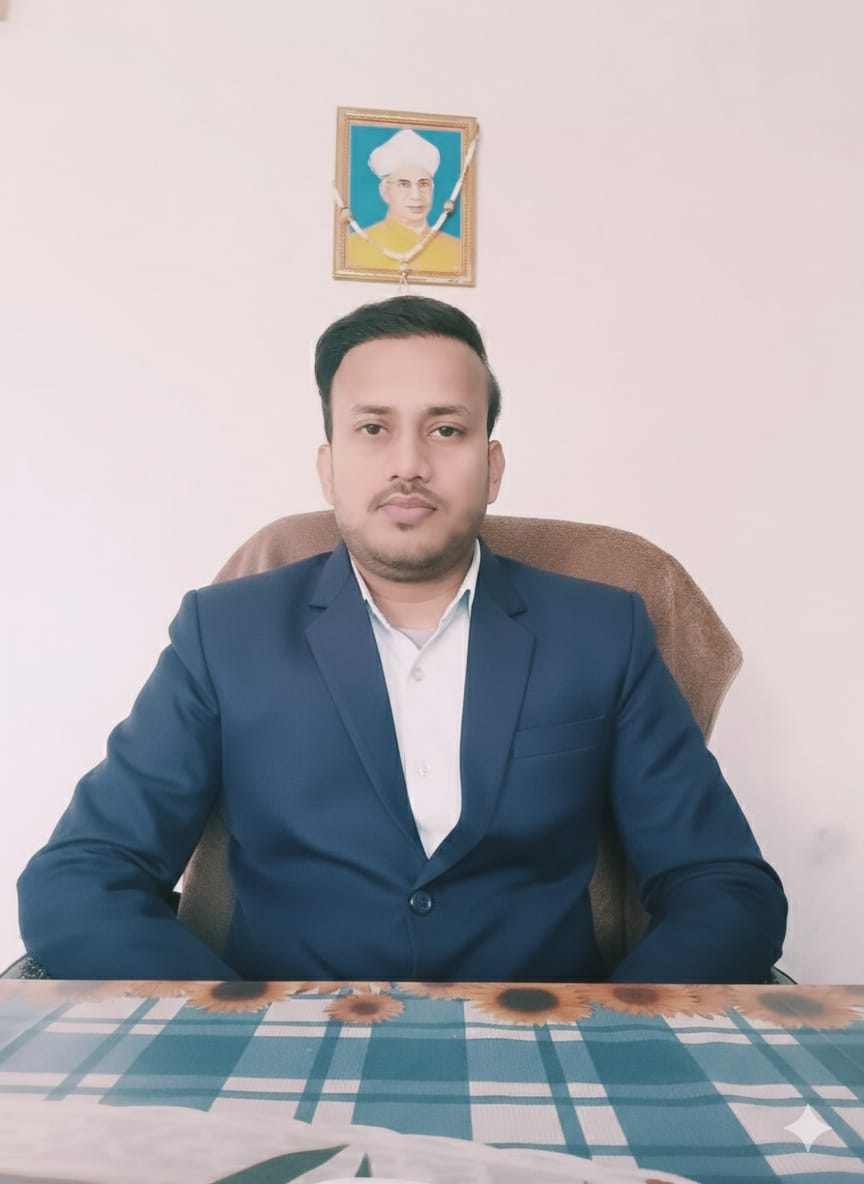
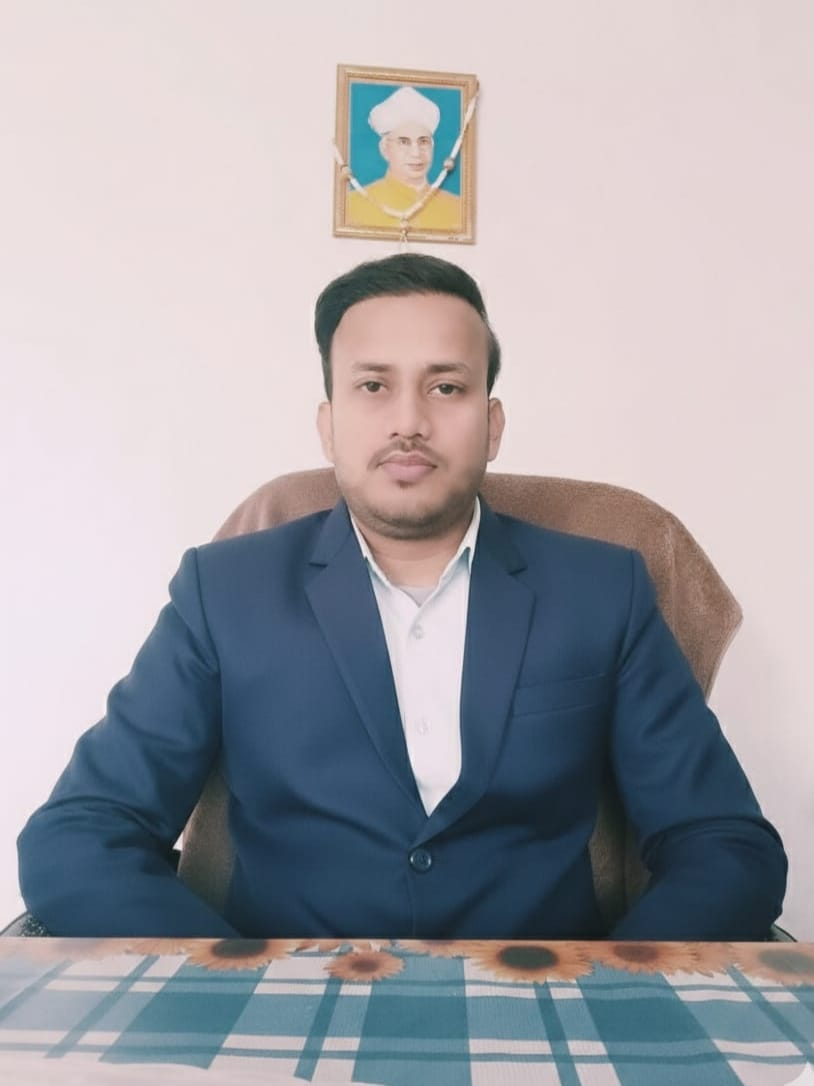
images updated

diff --git a/src/pages/GalleryPage.jsx b/src/pages/GalleryPage.jsx
@@ -101,6 +101,48 @@ const galleryImages = eventImageSources.flatMap((source) =>
     }))
 );
 
+const eventHeadlineMeta = {
+  "Republic Day Event": {
+    badge: "Patriotic Spirit",
+    title: "Republic Day Pride Parade",
+    subtitle: "A tribute to our Constitution through performances, discipline, and unity.",
+  },
+  "Independence Day Event": {
+    badge: "National Celebration",
+    title: "Independence Day Glory Moments",
+    subtitle: "Flag hoisting, cultural pride, and heartfelt salutes to the nation.",
+  },
+  "Sports Day Event": {
+    badge: "Energy & Teamwork",
+    title: "Sports Day Champions Arena",
+    subtitle: "Speed, stamina, and sportsmanship captured in every frame.",
+  },
+  "Holi Event": {
+    badge: "Colors & Joy",
+    title: "Holi Happiness Highlights",
+    subtitle: "Vibrant colors, laughter, and unforgettable festive memories.",
+  },
+  "Farewell Event": {
+    badge: "Goodbye & Gratitude",
+    title: "Farewell Golden Memories",
+    subtitle: "Emotional moments, smiles, and blessings for the next chapter.",
+  },
+  "Exam Prep Event": {
+    badge: "Focus & Growth",
+    title: "Exam Prep Success Sessions",
+    subtitle: "Dedicated guidance, smart learning, and confidence-building moments.",
+  },
+};
+
+const eventOrder = [
+  "Republic Day Event",
+  "Independence Day Event",
+  "Sports Day Event",
+  "Holi Event",
+  "Farewell Event",
+  "Exam Prep Event",
+];
+
 const GalleryPage = () => {
   const [selectedEvent, setSelectedEvent] = useState("");
   const [selectedImage, setSelectedImage] = useState(null);
@@ -116,7 +158,15 @@ const GalleryPage = () => {
   }, []);
 
   const eventSections = useMemo(() => {
-    return Object.entries(groupedByEvent).map(([event, images]) => ({ event, images }));
+    return Object.entries(groupedByEvent)
+      .map(([event, images]) => ({ event, images }))
+      .sort((first, second) => {
+        const firstIndex = eventOrder.indexOf(first.event);
+        const secondIndex = eventOrder.indexOf(second.event);
+        const safeFirstIndex = firstIndex === -1 ? Number.MAX_SAFE_INTEGER : firstIndex;
+        const safeSecondIndex = secondIndex === -1 ? Number.MAX_SAFE_INTEGER : secondIndex;
+        return safeFirstIndex - safeSecondIndex;
+      });
   }, [groupedByEvent]);
 
   const selectedEventImages = useMemo(() => {
@@ -155,6 +205,14 @@ const GalleryPage = () => {
 
       <div className="mt-8 space-y-10">
         {eventSections.map((section, sectionIndex) => (
+          (() => {
+            const headline = eventHeadlineMeta[section.event] ?? {
+              badge: "Campus Event",
+              title: section.event,
+              subtitle: "Memories from this special event celebration.",
+            };
+
+            return (
           <motion.div
             key={section.event}
             initial={{ opacity: 0, y: 20 }}
@@ -163,8 +221,14 @@ const GalleryPage = () => {
             transition={{ duration: 0.55, delay: sectionIndex * 0.04 }}
             className="rounded-3xl border border-slate-200 bg-white p-4 shadow-md shadow-slate-900/5 sm:p-6"
           >
-            <div className="mb-4 flex items-center justify-between gap-3">
-              <h2 className="text-xl font-bold text-slate-900 sm:text-2xl">{section.event}</h2>
+            <div className="mb-4 flex items-start justify-between gap-3">
+              <div>
+                <span className="inline-flex rounded-full border border-blue-100 bg-blue-50 px-3 py-1 text-[11px] font-semibold uppercase tracking-wide text-blue-700 sm:text-xs">
+                  {headline.badge}
+                </span>
+                <h2 className="mt-2 text-xl font-bold text-slate-900 sm:text-2xl">{headline.title}</h2>
+                <p className="mt-1 text-xs text-slate-600 sm:text-sm">{headline.subtitle}</p>
+              </div>
               <span className="rounded-full border border-slate-200 bg-slate-50 px-3 py-1 text-xs font-semibold text-slate-600 sm:text-sm">
                 {section.images.length} Photos
               </span>
@@ -188,7 +252,7 @@ const GalleryPage = () => {
                     aria-label={`Open ${image.title}`}
                     className="group relative overflow-hidden rounded-2xl border border-slate-200 bg-white text-left shadow-sm shadow-slate-900/10"
                   >
-                    <div className="relative aspect-[4/5] overflow-hidden bg-slate-100 sm:aspect-[4/3]">
+                    <div className="relative aspect-[4/3] overflow-hidden bg-slate-100">
                       <img
                         src={image.src}
                         alt={image.alt}
@@ -201,6 +265,8 @@ const GalleryPage = () => {
               </AnimatePresence>
             </motion.div>
           </motion.div>
+            );
+          })()
         ))}
       </div>
 

diff --git a/src/pages/AcademicsPage.jsx b/src/pages/AcademicsPage.jsx
@@ -296,7 +296,7 @@ const AcademicsPage = () => {
                     transition={{ duration: 4.5, repeat: Infinity, ease: "easeInOut" }}
                     className="overflow-hidden rounded-3xl border border-cyan-100 bg-gradient-to-br from-cyan-50 to-white p-4 shadow-lg shadow-cyan-900/10"
                   >
-                    <div className="relative h-[320px] overflow-hidden rounded-2xl">
+                    <div className="relative aspect-square overflow-hidden rounded-2xl">
                       <img
                         src={directorsByWing.school.image}
                         alt="Dynamic Public School director"
@@ -380,7 +380,7 @@ const AcademicsPage = () => {
                     transition={{ duration: 4.5, repeat: Infinity, ease: "easeInOut" }}
                     className="overflow-hidden rounded-3xl border border-blue-100 bg-gradient-to-br from-blue-50 to-white p-4 shadow-lg shadow-blue-950/10"
                   >
-                    <div className="relative h-[320px] overflow-hidden rounded-2xl">
+                    <div className="relative aspect-square overflow-hidden rounded-2xl">
                       <img
                         src={directorsByWing.coaching.image}
                         alt="Dynamic Coaching Centre director"

diff --git a/src/pages/AboutPage.jsx b/src/pages/AboutPage.jsx
@@ -210,7 +210,7 @@ const AboutPage = () => {
             transition={{ duration: 4.5, repeat: Infinity, ease: "easeInOut" }}
             className="overflow-hidden rounded-3xl border border-slate-200 bg-gradient-to-br from-slate-100 to-stone-100 p-4 shadow-lg shadow-slate-900/10"
           >
-            <div className="relative h-[350px] overflow-hidden rounded-2xl">
+            <div className="relative aspect-square overflow-hidden rounded-2xl">
               <img
                 src={directorProfile.image}
                 alt={directorProfile.name}
